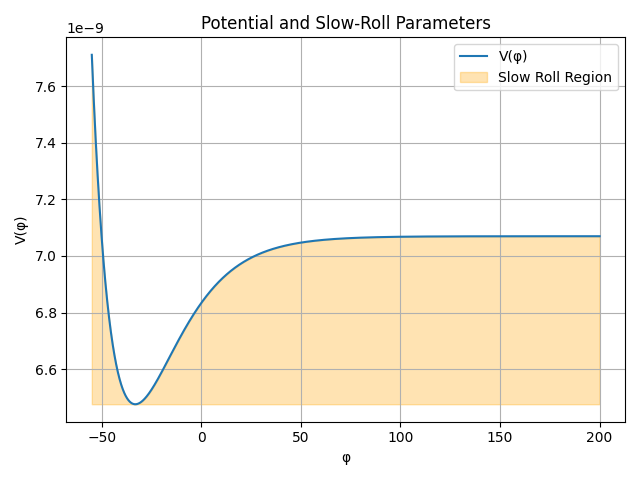
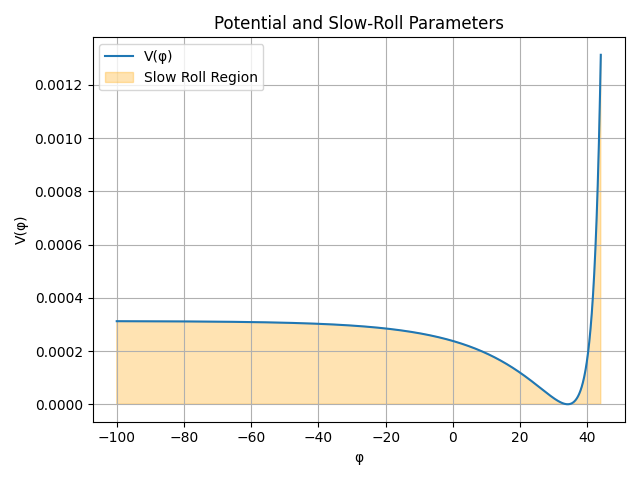
Found nice parameters

diff --git a/Python/PPotenial.py b/Python/PPotenial.py
@@ -19,7 +19,7 @@ M = 20            # Planck mass
 phi0 = 3        # non-propagating field (in mass units)
 g = 20             # model parameter gamma
 a = 50            # model parameter alpha
-b = 1             # model parameter beta
+b = -1             # model parameter beta
 d = 1.5           # minima of potential (unused in this version)
 D = np.sqrt(g**2 - 4*a*b)  # Here: sqrt(81 - 68) = sqrt(13) ≈ 3.606
 K = 1             # K = sqrt(2\beta / k-6\beta)
@@ -32,7 +32,7 @@ eh = 0.2          # initial slow roll parameter
 # Symbolic expressions for potential and derivatives
 p_s = symbols('phi')
 x = K*p_s /(2*M) + c
-Xp = - (phi0/(2*b)) * (g  + D * tanh(K*p_s /(2*M) + c))
+Xp = (phi0/(2*b)) * (g  + D * tanh(K*p_s /(2*M) + c))
 Vp = (m**2 * phi0**2 * Xp**2)/(2* (b*Xp**2 + g*phi0*Xp + a*phi0**2)**2)
 # After defining Xp and A, simplify Vp symbolically
 # Corrected analytical potential using cosh^4
@@ -103,7 +103,7 @@ sr_0 = np.zeros(len(Nr)-len(sr_))
 sr_ = np.append(sr_,sr_0)
 
 # Define a range of phi values
-phi = np.linspace(-55, 200, 500)
+phi = np.linspace(-100, 44, 5000)
 
 exit_index = np.argmax(e >= 1)  # first index where slow-roll fails
 phi_exit_H = ps[exit_index]
@@ -157,7 +157,7 @@ slow_mask = (eps_values < 1) & (eta_values < 1)
 
 
 plt.plot(phi, v1, label="V(φ)")
-plt.plot(phi, v2, label="Analytic V(φ)")
+#plt.plot(phi, v2, label="Analytic V(φ)")
 plt.title("Potential and Slow-Roll Parameters")
 """
 plt.plot(L, Mv,'o', label="Slow rolling V(φ)")
@@ -180,7 +180,7 @@ plt.show()
 #Plot slow roll parameters, epsilon and eta
 plt.figure(figsize=(10, 6))
 plt.plot(phi, ep, label=r"$\epsilon$")
-plt.plot(phi, ea, label=r"$\epsilon$ analytical")
+#plt.plot(phi, ea, label=r"$\epsilon$ analytical")
 #plt.plot(phi, et, label=r"$\eta$")
 plt.title("Slow Roll Parameter: $\epsilon$ vs. Field ($\phi$)")
 plt.xlabel("\phi")
